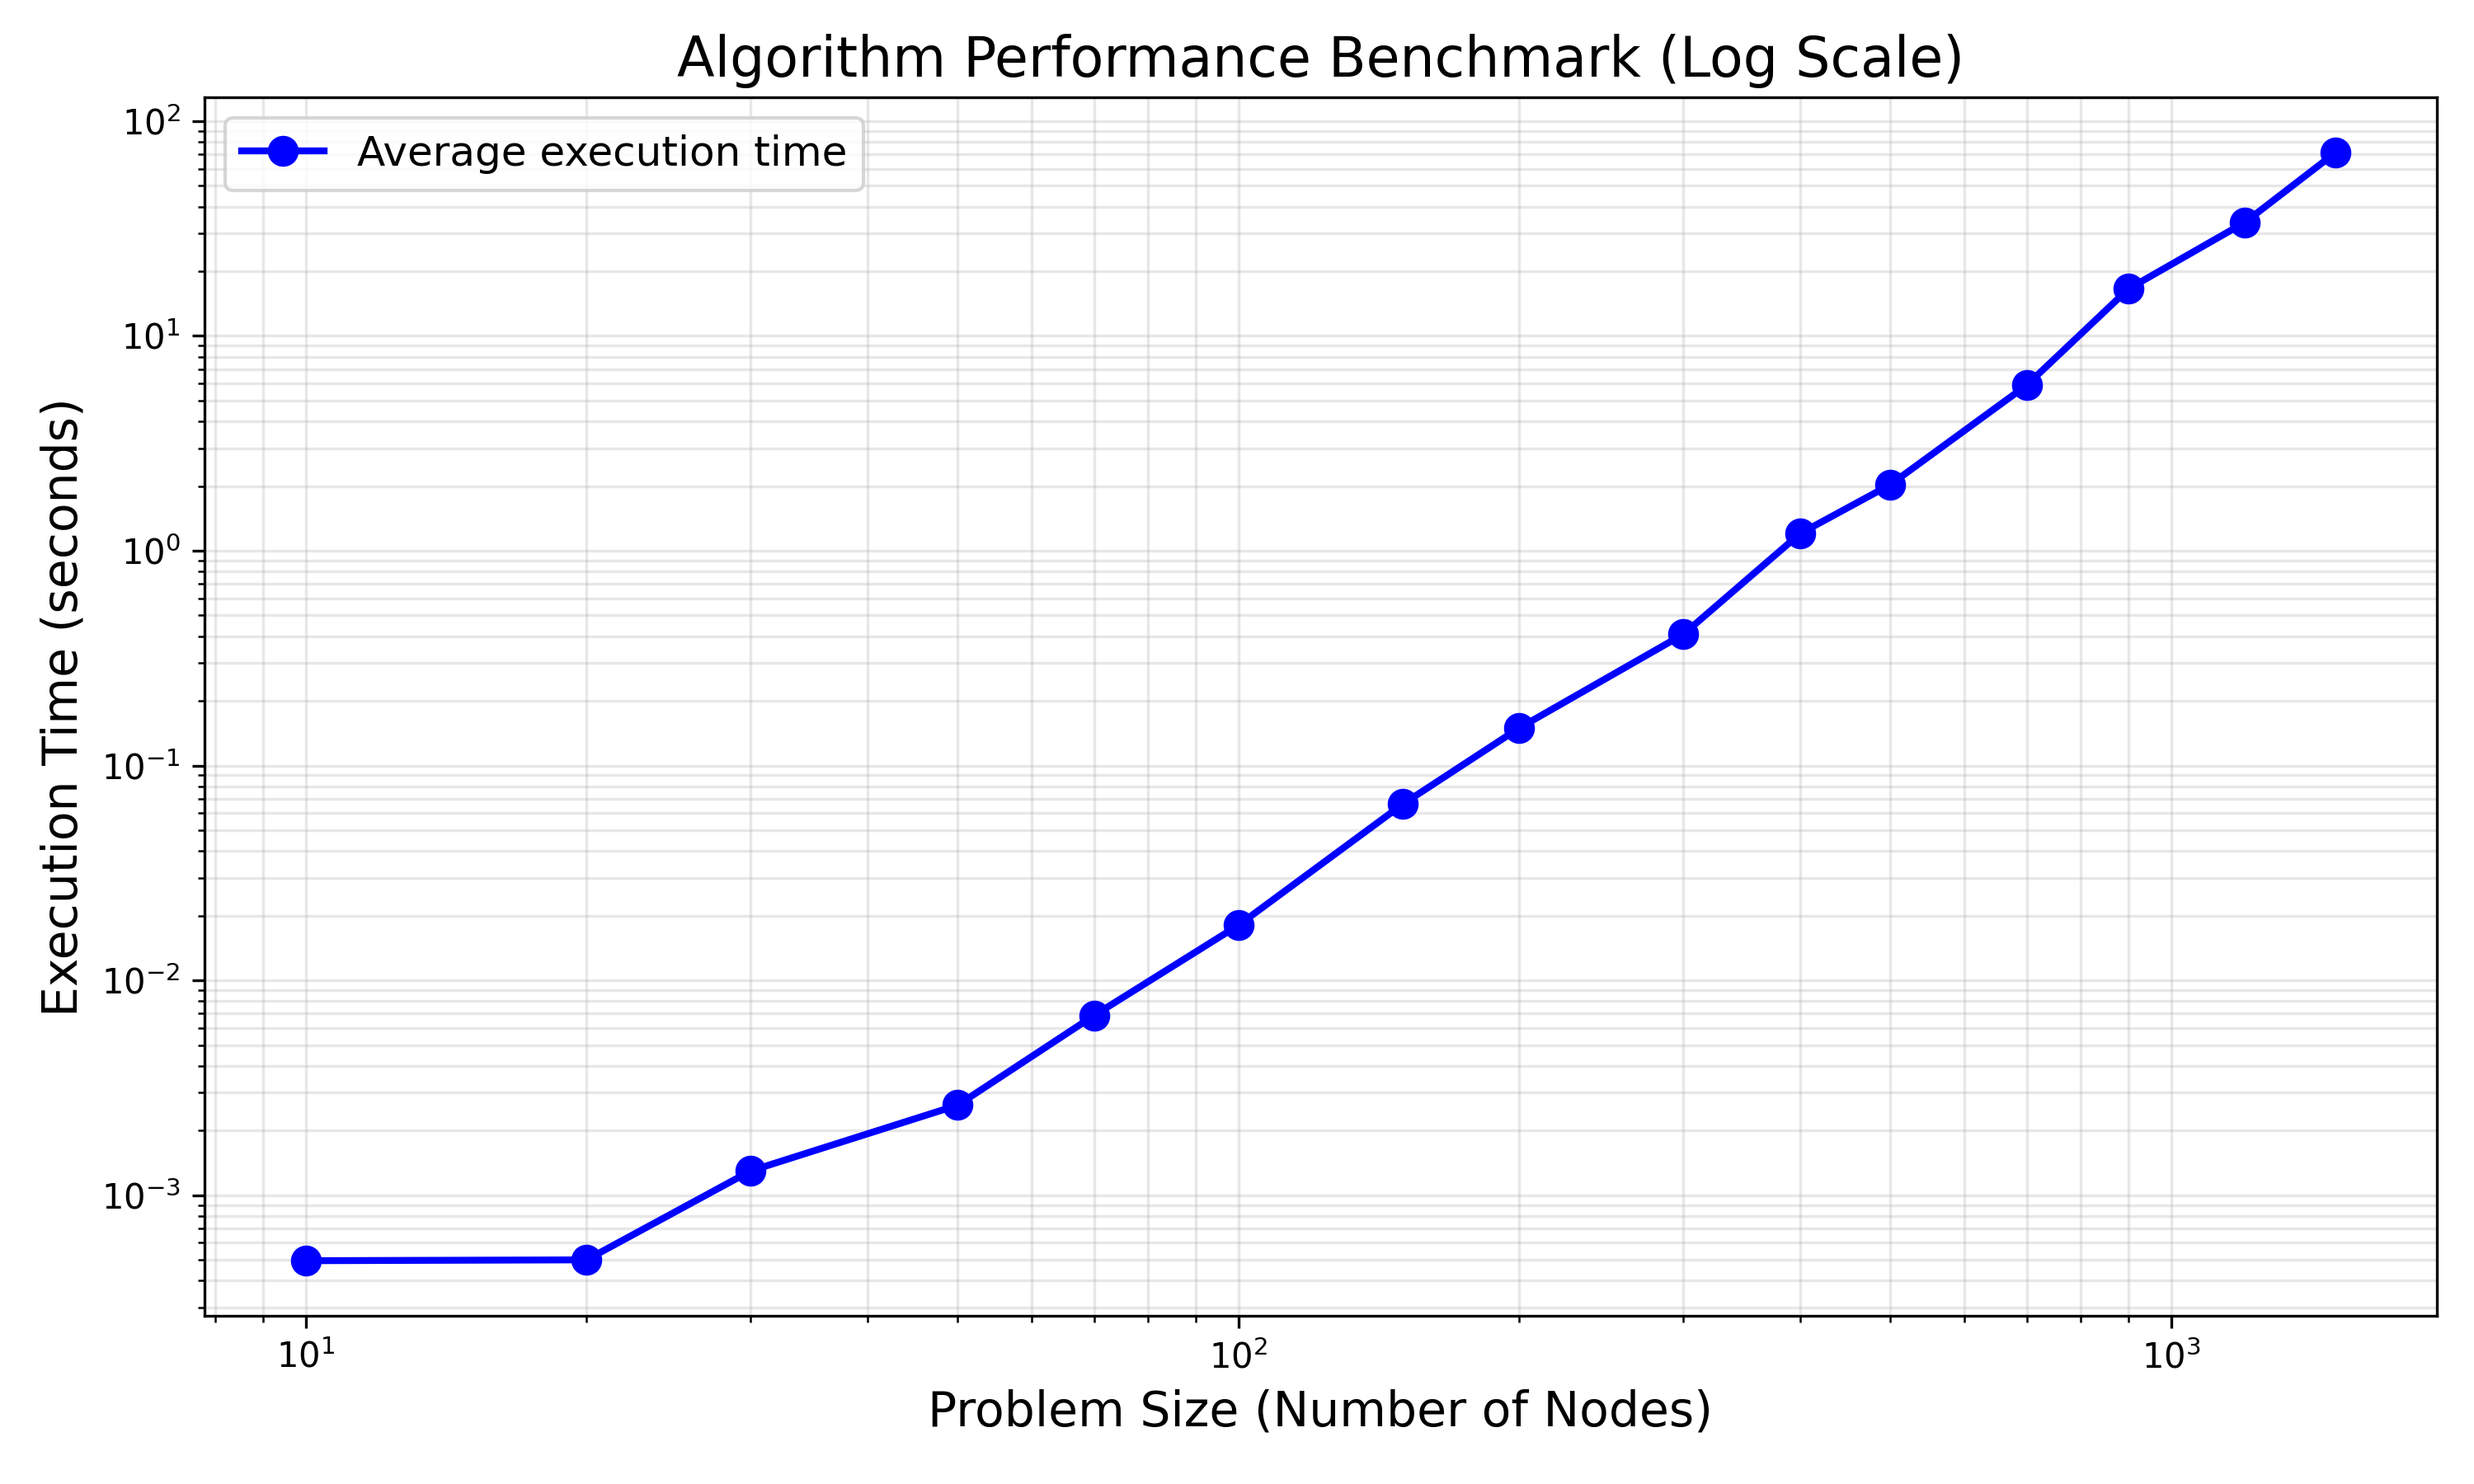
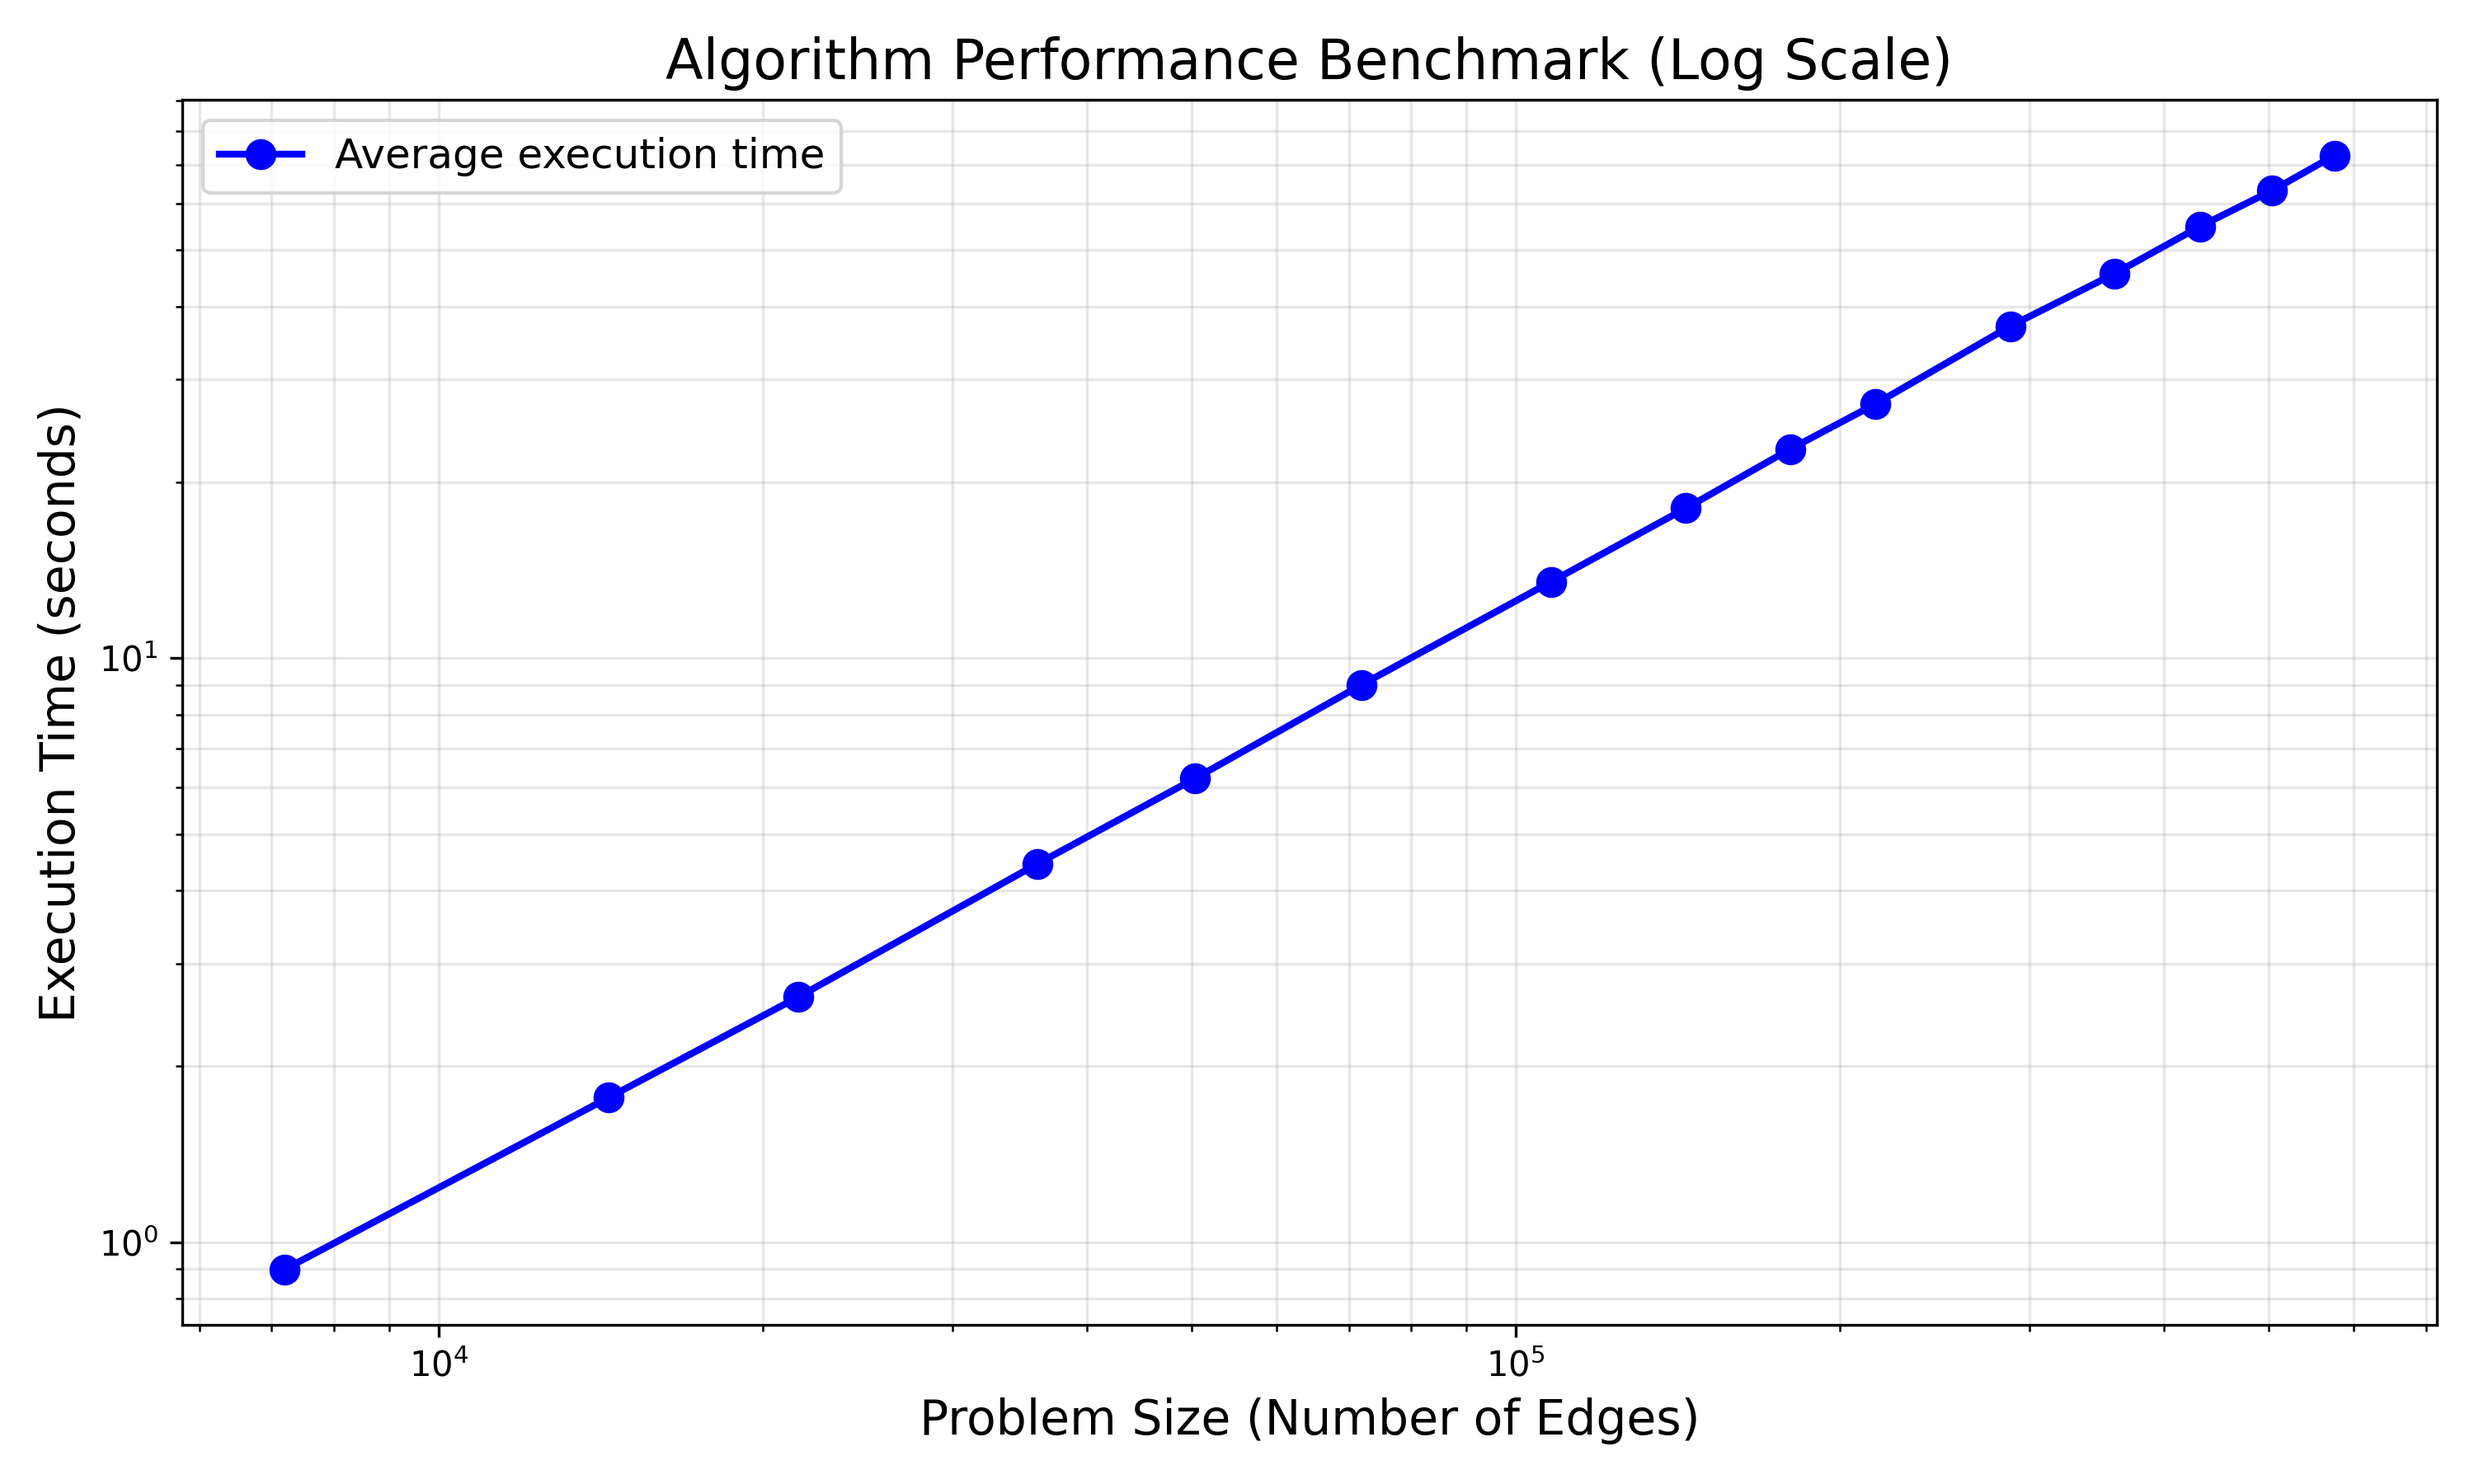
added more tests

diff --git a/benchmark_tests.py b/benchmark_tests.py
@@ -72,6 +72,52 @@ def run_benchmark(sizes, repetitions=3, connectivity_range=(0.05, 0.2), seed=Non
     avg_results = {size: np.mean(times) for size, times in results.items()}
     return avg_results, results
 
+def run_connectivity_benchmark(
+    fixed_size=500, 
+    connectivity_values=None, 
+    repetitions=3,
+    num_cities=10,
+    seed=None
+):
+    if seed is not None:
+        random.seed(seed)
+
+    max_edge_count = fixed_size * (fixed_size - 1) / 2
+    
+    results = {conn: [] for conn in connectivity_values}
+    edge_counts = {conn: [] for conn in connectivity_values}
+    
+    print(f"Testing fixed vertex size: {fixed_size} with varying connectivity")
+    
+    for conn in connectivity_values:
+        print(f"\nConnectivity: {conn:.4f}")
+        for rep in range(repetitions):
+            # Generate problem instance
+            stations, edges, idx, src = generate_graph(
+                num_nodes=fixed_size,
+                connectivity=conn,
+                num_cities=num_cities,
+                weight_range=(10, 100),
+                seed=seed + rep if seed else None
+            )
+            
+            # Measure execution time
+            start_time = time.time()
+            turouist_problem(stations, edges, idx, src)
+            elapsed = time.time() - start_time
+            
+            results[conn].append(elapsed)
+            print(f"  Repetition {rep+1}/{repetitions}: {elapsed:.4f} seconds, {len(edges)} edges")
+    
+            # Track number of edges
+            edge_counts[conn].append(len(edges))
+    
+    # Calculate average times and edge counts
+    avg_results = {size*max_edge_count: np.mean(times) for size, times in results.items()}
+    
+    return avg_results, results
+
+
 def save_results(results, filename="benchmark_results.pkl"):
     """Save benchmark results to file"""
     with open(filename, 'wb') as f:
@@ -83,7 +129,7 @@ def load_results(filename="benchmark_results.pkl"):
     with open(filename, 'rb') as f:
         return pickle.load(f)
 
-if __name__ == "__main__":
+def size_benchmark():
     # Define problem sizes to test - at least 5 different sizes as requested
     # Creating 10 different sizes for better curve fitting
     sizes = [
@@ -113,3 +159,41 @@ if __name__ == "__main__":
     save_results((avg_results, raw_results))
     
     print("\nBenchmark complete. Results saved as benchmark_results.pkl and benchmark_results.png")
+
+def connectivity_benchmark():
+     # Fixed vertex size
+    FIXED_SIZE = 1200
+    
+    # Define connectivity values to test (at least 10 different values)
+    connectivity_values = [
+        0.01, 0.02, 0.03, 0.05, 0.07,  # Sparse graphs
+        0.1, 0.15, 0.2, 0.25, 0.3,     # Medium density
+        0.4, 0.5, 0.6, 0.7, 0.8        # Dense graphs
+    ]
+    
+    # Number of repetitions per connectivity value
+    repetitions_per_conn = 4  # 15 connectivity values * 4 repetitions = 60 total instances
+    
+    # Run benchmarks
+    print(f"Running connectivity benchmark suite with fixed vertex size {FIXED_SIZE}")
+    print(f"Testing {len(connectivity_values)} connectivity values with {repetitions_per_conn} repetitions each")
+    print(f"Total instances: {len(connectivity_values) * repetitions_per_conn}")
+    
+    # Run the benchmarks
+    avg_results, raw_results= run_connectivity_benchmark(
+        fixed_size=FIXED_SIZE,
+        connectivity_values=connectivity_values,
+        repetitions=repetitions_per_conn,
+        num_cities=10,
+        seed=42
+    )
+    
+    # Save results
+    save_results((avg_results, raw_results),filename="connectivity_benchmark_results.pkl")
+    
+    print("\nConnectivity benchmark complete.")
+    print("Results saved as connectivity_benchmark_results.pkl")
+    print("Plots saved as connectivity_benchmark.png")
+
+if __name__ == "__main__":
+    connectivity_benchmark()

diff --git a/benchmark_plot.py b/benchmark_plot.py
@@ -23,7 +23,7 @@ def plot_benchmark_results(avg_results):
 
     # Add labels and styling
     plt.title("Algorithm Performance Benchmark (Log Scale)", fontsize=16)
-    plt.xlabel("Problem Size (Number of Nodes)", fontsize=14)
+    plt.xlabel("Problem Size (Number of Edges)", fontsize=14)
     plt.ylabel("Execution Time (seconds)", fontsize=14)
     plt.grid(True, alpha=0.3, which='both')  # Grid lines for both major and minor ticks
     plt.legend(fontsize=12)
@@ -39,5 +39,6 @@ def load_results(filename="benchmark_results.pkl"):
     with open(filename, 'rb') as f:
         return pickle.load(f)
 # Example usage:
-avg_results, results = load_results("benchmark_results.pkl")
+avg_results, results = load_results("connectivity_benchmark_results.pkl")
+print(avg_results)
 plot_benchmark_results(avg_results)
